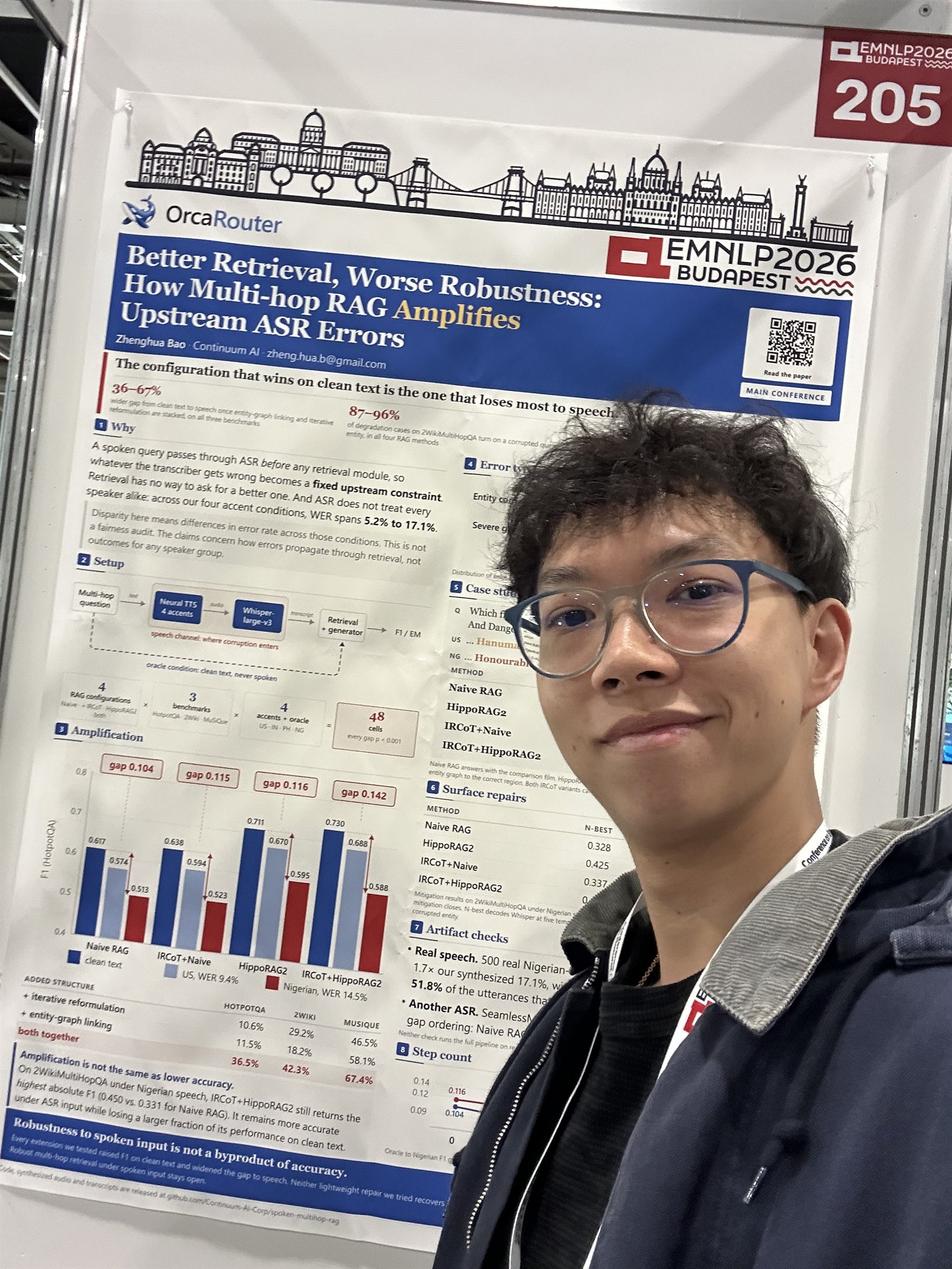
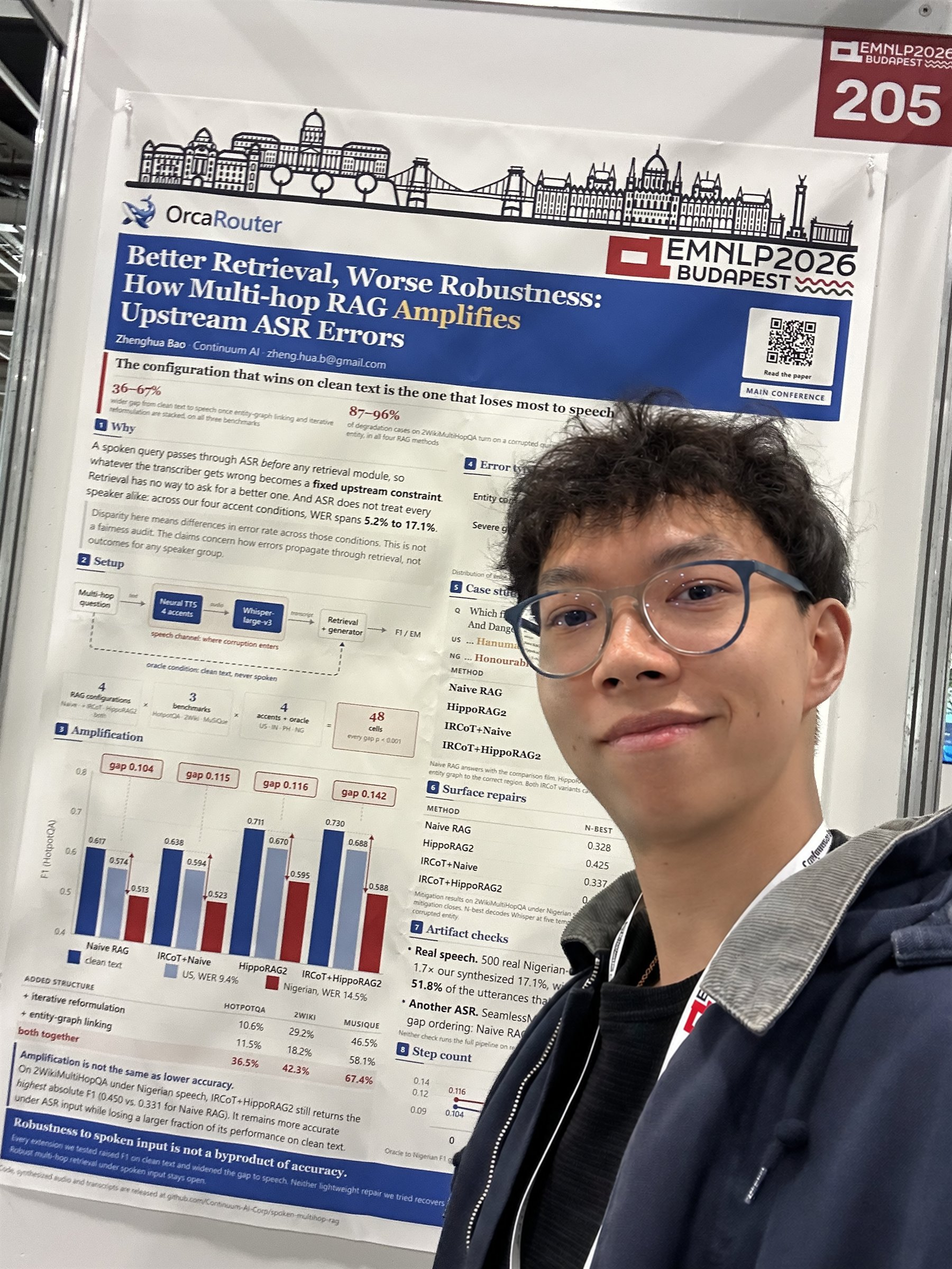
Add an AACL-IJCNLP album and recolour the EMNLP poster
New Photos album for AACL-IJCNLP 2026 in Hengqin (conference backdrop
and the IndexRAG poster), placed ahead of EMNLP. Correct the EMNLP
album to October 2026 per the attendance dates, so the albums read
newest-first. Replace the EMNLP poster thumbnail and lightbox image
with the colour-corrected version.

diff --git a/index.html b/index.html
@@ -1301,7 +1301,29 @@
       <h2>Photos</h2>
 
       <div class="album">
-        <h3 class="album-head"><span class="ev">EMNLP 2026</span><span class="meta">Budapest, November 2026</span></h3>
+        <h3 class="album-head"><span class="ev">AACL-IJCNLP 2026</span><span class="meta">Hengqin, November 2026</span></h3>
+        <p class="album-note">Presenting <em>IndexRAG: Index-Time Reasoning for Multi-Hop
+          Retrieval-Augmented Generation</em> at the Findings poster session.</p>
+        <div class="album-row">
+          <button class="ph" type="button"
+                  data-full="aacl-conference-full.jpg"
+                  data-cap="AACL-IJCNLP 2026, Hengqin &mdash; at the conference backdrop.">
+            <img src="aacl-conference.jpg" width="1050" height="1400"
+                 alt="Zhenghua Bao at the AACL-IJCNLP 2026 conference backdrop in Hengqin, China"
+                 loading="lazy" decoding="async">
+          </button>
+          <button class="ph" type="button"
+                  data-full="aacl-poster-full.jpg"
+                  data-cap="AACL-IJCNLP 2026, Hengqin &mdash; presenting &lt;em&gt;IndexRAG: Index-Time Reasoning for Multi-Hop Retrieval-Augmented Generation&lt;/em&gt;.">
+            <img src="aacl-poster.jpg" width="1050" height="1400"
+                 alt="Zhenghua Bao presenting the IndexRAG poster at AACL-IJCNLP 2026"
+                 loading="lazy" decoding="async">
+          </button>
+        </div>
+      </div>
+
+      <div class="album">
+        <h3 class="album-head"><span class="ev">EMNLP 2026</span><span class="meta">Budapest, October 2026</span></h3>
         <p class="album-note">Presenting <em>Better Retrieval, Worse Robustness: How Multi-hop
           RAG Amplifies Upstream ASR Errors</em> at the Main Conference poster session.</p>
         <div class="album-row">
